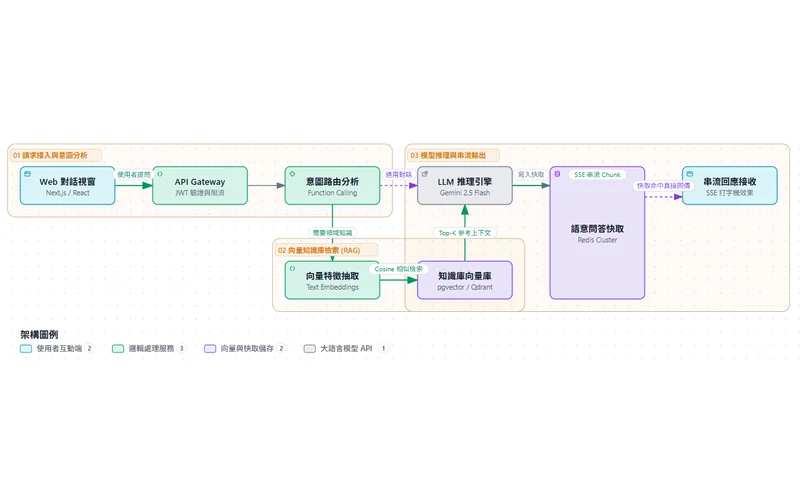
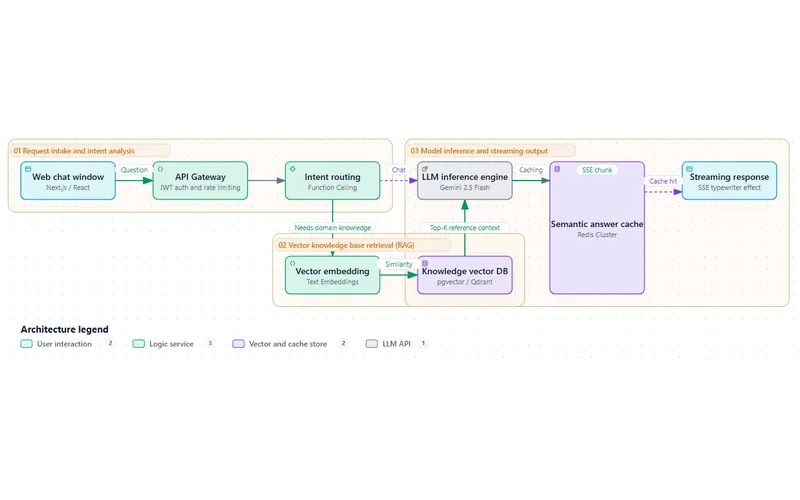
feat(examples): 英文縮圖換成英文標籤的 RAG 流程圖，並縮短英文連線標籤避免蓋住節點
- examples/thumb.webp 重做為英文 RAG 流程圖（800x500）
- 英文連線標籤原本比格位間距長，會蓋住節點文字，改為較短的說法
- README 雙語補上縮圖重新產生的截圖與轉檔步驟
- 票券 06 標為完成

Changed region(s): [[0.0, 0.27, 1.0, 0.63], [0.0, 0.63, 0.5312, 0.72], [0.6875, 0.42, 0.8125, 0.51]]

diff --git a/examples/rag.ts b/examples/rag.ts
@@ -61,14 +61,14 @@ const text: Record<Lang, RagText> = {
       stream_client: 'Stream debug listener',
     },
     edges: {
-      userQuestion: 'User question',
-      generalChat: 'General chat',
+      userQuestion: 'Question',
+      generalChat: 'Chat',
       needDomainKnowledge: 'Needs domain knowledge',
-      cosineSearch: 'Cosine similarity search',
+      cosineSearch: 'Similarity',
       topKContext: 'Top-K reference context',
-      writeCache: 'Write to cache',
-      sseChunk: 'SSE streaming Chunk',
-      cacheHit: 'Cache hit, return directly',
+      writeCache: 'Caching',
+      sseChunk: 'SSE chunk',
+      cacheHit: 'Cache hit',
     },
     frames: {
       intake: '01 Request intake and intent analysis',

diff --git a/README.md b/README.md
@@ -139,6 +139,23 @@ See the `examples/` directory for the complete flagship example specs:
 - `examples/cicd.ts`: CI/CD automated build and deployment pipeline
 - `examples/rag.ts`: AI / RAG retrieval-augmented question answering pipeline
 
+### Regenerating the social preview thumbnails
+
+`examples/thumb.webp` (English) and `examples/thumb.zh-TW.webp` (Traditional Chinese) are the 800x500 `og:image` files. They are produced once by hand and are not part of the build script. Redo them when an example changes. Requires Microsoft Edge, ImageMagick and `cwebp`.
+
+```sh
+bun run example   # build the pages first
+# 1. Screenshot the RAG page at 1400x700 (use zh-TW/rag.html for the Chinese one)
+msedge --headless=new --hide-scrollbars --window-size=1400,700 \
+  --screenshot=rag-full.png file:///<repo>/examples/out/rag.html
+# 2. Crop the diagram card, scale to width 800, pad to 800x500 on white, encode as webp
+magick rag-full.png -crop 1272x369+66+197 +repage -resize 800x \
+  -background white -gravity center -extent 800x500 rag-thumb.png
+cwebp -q 80 rag-thumb.png -o examples/thumb.webp   # zh-TW: examples/thumb.zh-TW.webp
+```
+
+If the page layout changes, adjust the crop offsets so the whole diagram and legend stay inside the frame, and check that no label is clipped or overlapping.
+
 ## License
 
 MIT

diff --git a/README.zh-TW.md b/README.zh-TW.md
@@ -139,6 +139,23 @@ bun run example     # 在 examples/out 產生範例頁
 - `examples/cicd.ts`：CI/CD 自動化建置與部署流水線
 - `examples/rag.ts`：AI / RAG 檢索增強問答管線
 
+### 重新產生社群預覽縮圖
+
+`examples/thumb.webp`（英文）與 `examples/thumb.zh-TW.webp`（繁體中文）是 800x500 的 `og:image` 檔案。它們是手動一次性產生，不屬於建置腳本，範例改版時要重做。需要 Microsoft Edge、ImageMagick 與 `cwebp`。
+
+```sh
+bun run example   # 先建置頁面
+# 1. 以 1400x700 對 RAG 頁面截圖（中文版請改用 zh-TW/rag.html）
+msedge --headless=new --hide-scrollbars --window-size=1400,700 \
+  --screenshot=rag-full.png file:///<repo>/examples/out/zh-TW/rag.html
+# 2. 裁切流程圖卡片、縮放到寬度 800、在白底上補成 800x500，再轉成 webp
+magick rag-full.png -crop 1272x369+66+197 +repage -resize 800x \
+  -background white -gravity center -extent 800x500 rag-thumb.png
+cwebp -q 80 rag-thumb.png -o examples/thumb.zh-TW.webp   # 英文版：examples/thumb.webp
+```
+
+頁面版面若有變動，請調整裁切位移，確保整張流程圖與圖例都在畫面內，且沒有標籤被裁切或互相重疊。
+
 ## 授權
 
 MIT

diff --git a/.scratch/bilingual-docs/issues/06-english-thumbnail.md b/.scratch/bilingual-docs/issues/06-english-thumbnail.md
@@ -6,11 +6,11 @@
 
 **Blocked by（被誰阻擋）：** 04：CI/CD 與 RAG 範例字典化
 
-**Status：** ready-for-agent
+**Status：** done
 
-- [ ] 主縮圖是英文標籤的 RAG 流程圖，寬度 800，格式為 webp
-- [ ] 英文頁面的 `og:image` 指向它；繁中頁面仍指向繁中縮圖
-- [ ] 縮圖內的所有可見文字都是英文，構圖與原縮圖一致，沒有被裁切
-- [ ] 開發說明記錄了截圖與轉檔步驟，另一位維護者照著做能重新產生同一張圖
-- [ ] 建置腳本沒有新增任何產圖邏輯
-- [ ] 建置器測試中的 `og:image` 對應項目維持通過
+- [x] 主縮圖是英文標籤的 RAG 流程圖，寬度 800，格式為 webp
+- [x] 英文頁面的 `og:image` 指向它；繁中頁面仍指向繁中縮圖
+- [x] 縮圖內的所有可見文字都是英文，構圖與原縮圖一致，沒有被裁切
+- [x] 開發說明記錄了截圖與轉檔步驟，另一位維護者照著做能重新產生同一張圖
+- [x] 建置腳本沒有新增任何產圖邏輯
+- [x] 建置器測試中的 `og:image` 對應項目維持通過
